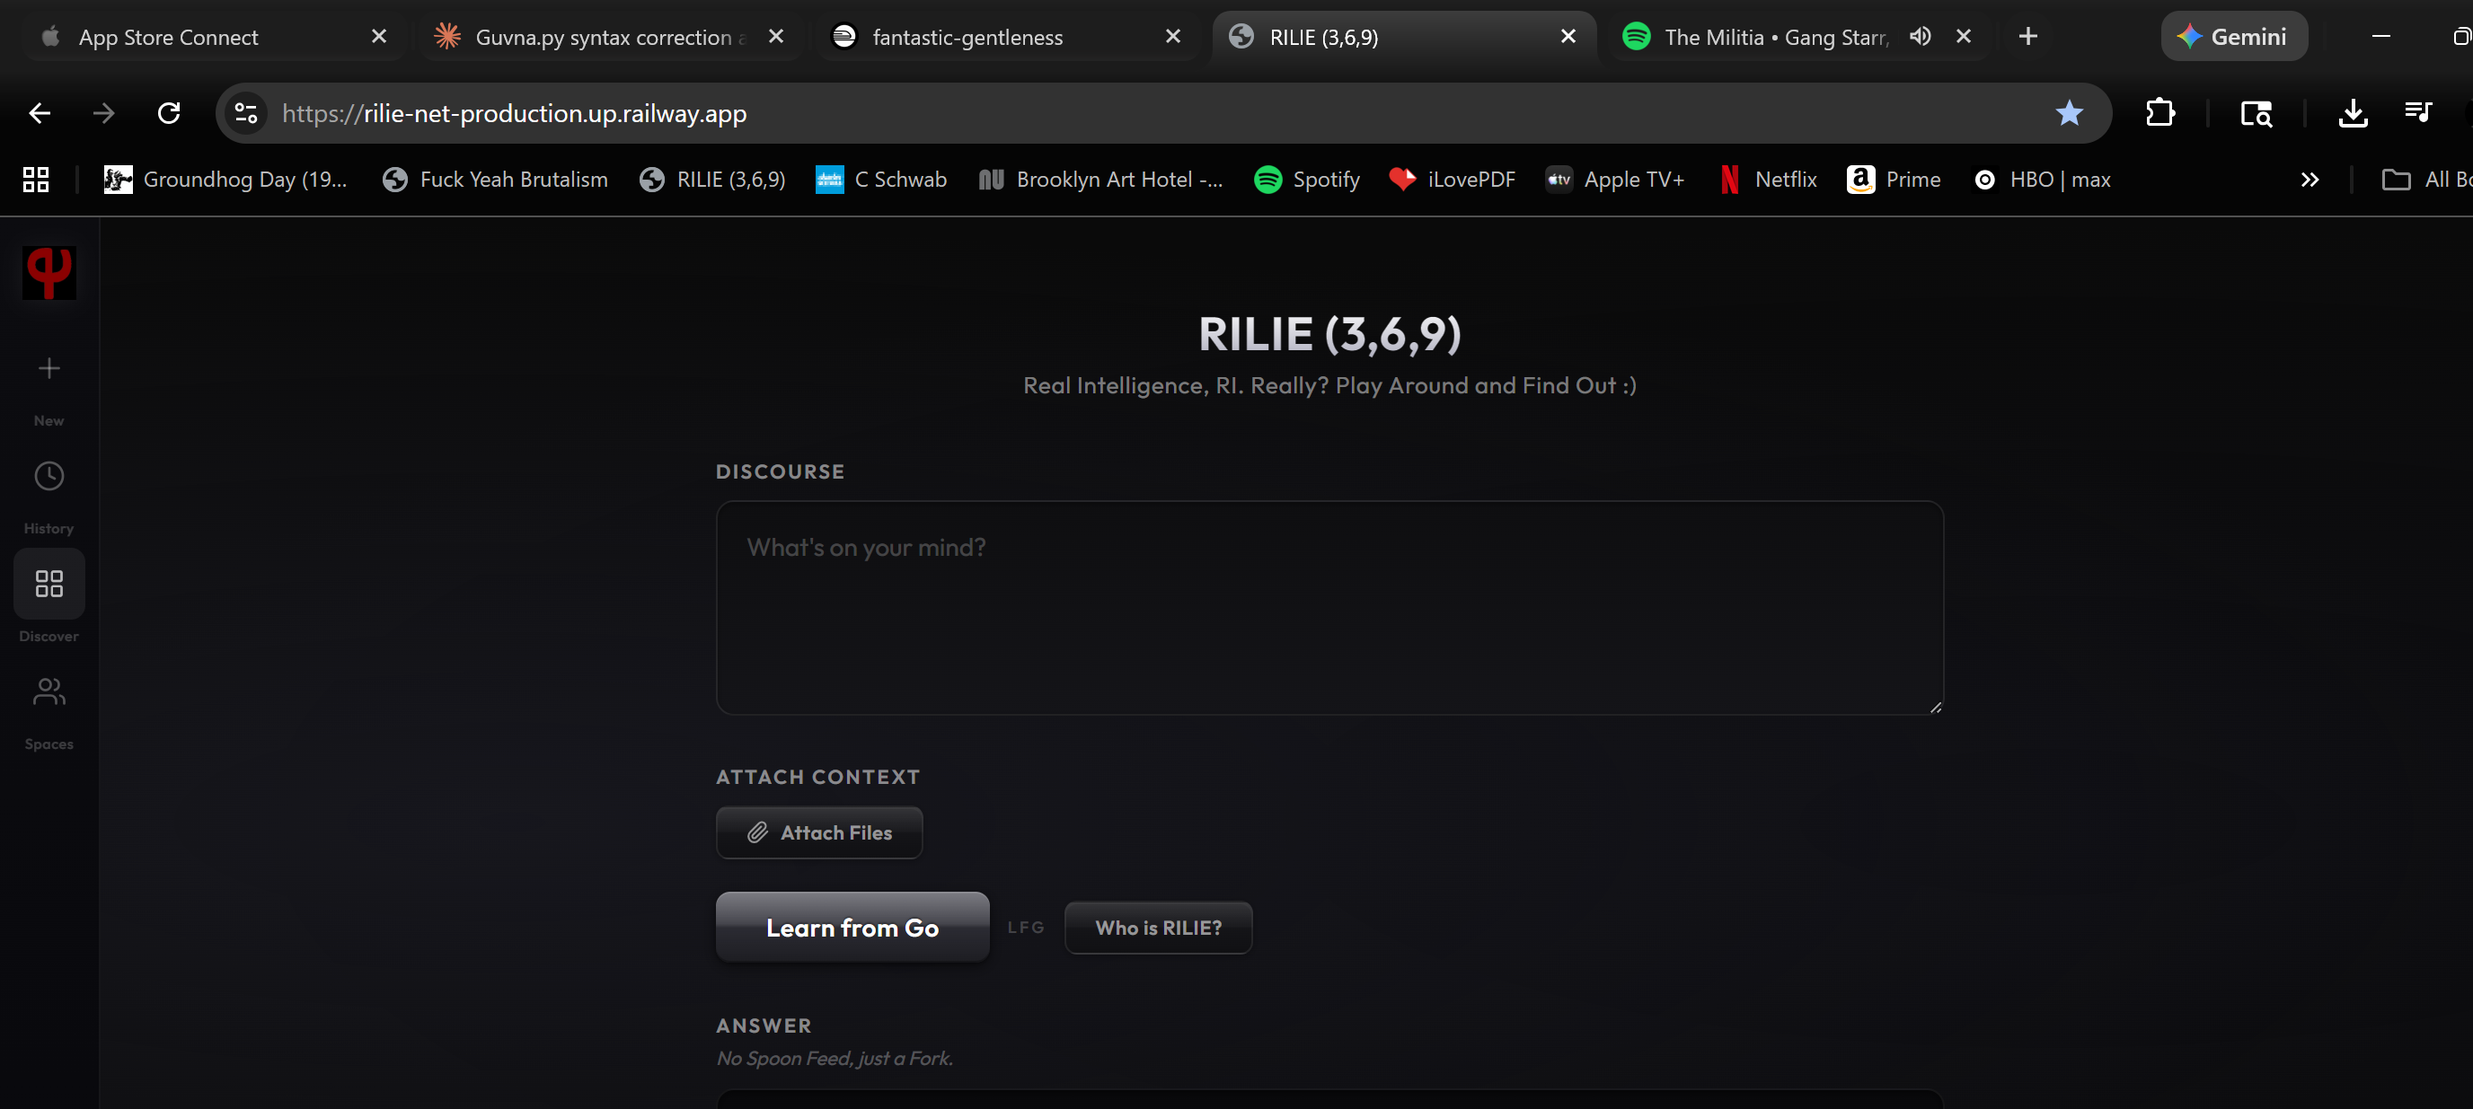
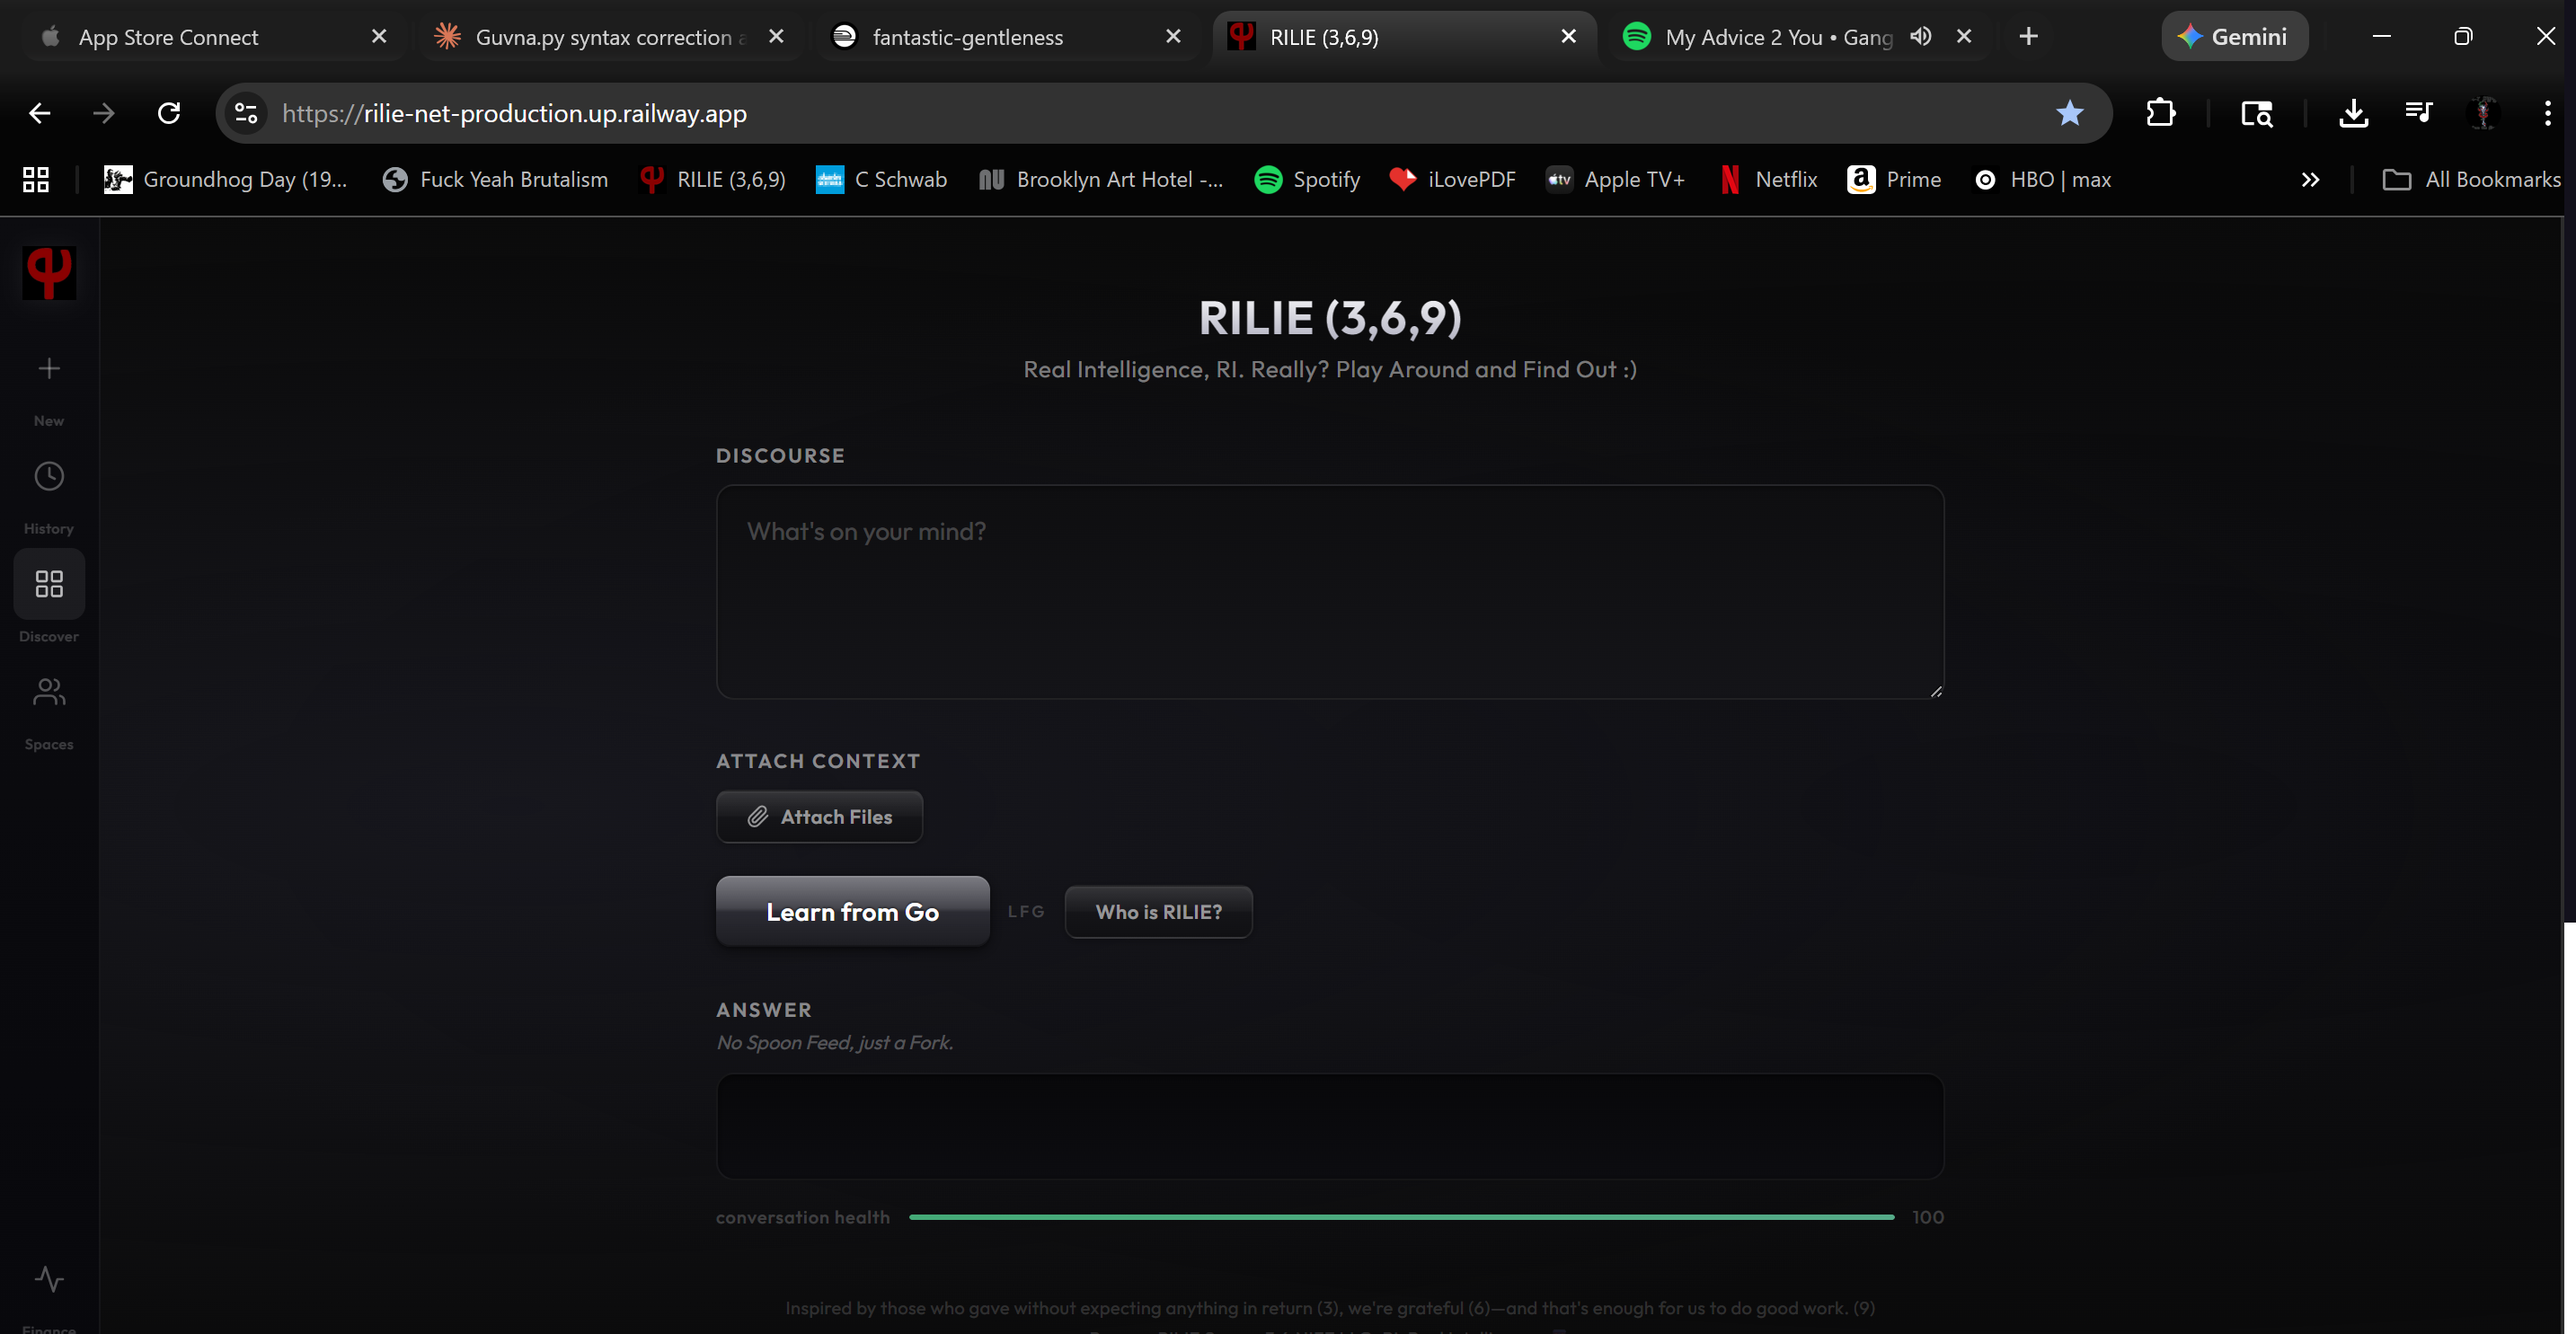
allthewaylive

diff --git a/rilie-client.html b/rilie-client.html
@@ -378,10 +378,28 @@
       font-family: 'Outfit', Consolas, Menlo, monospace;
       font-size: 13px;
       line-height: 1.65;
-      white-space: pre-wrap;
       color: rgba(255,255,255,0.75);
       min-height: 60px;
+      max-height: 500px;
+      overflow-y: auto;
       box-shadow: inset 0 1px 4px rgba(0,0,0,0.5);
+      display: flex;
+      flex-direction: column;
+      gap: 12px;
+    }
+
+    .rilie-output::-webkit-scrollbar {
+      width: 6px;
+    }
+    .rilie-output::-webkit-scrollbar-track {
+      background: transparent;
+    }
+    .rilie-output::-webkit-scrollbar-thumb {
+      background: rgba(255,255,255,0.1);
+      border-radius: 3px;
+    }
+    .rilie-output::-webkit-scrollbar-thumb:hover {
+      background: rgba(255,255,255,0.2);
     }
 
     /* ── Code block cards inside Answer ── */
@@ -777,10 +795,15 @@
 
       submitBtn.disabled = true;
       submitBtn.textContent = "Going...";
-      outputEl.textContent = "Running RILIE...";
       outputActions.classList.remove("visible");
 
       try {
+        // Append user message to conversation flow
+        const userDiv = document.createElement("div");
+        userDiv.style.marginBottom = "16px";
+        userDiv.innerHTML = "<strong>You:</strong> " + escapeHtml(stimulus).replace(/\n/g, "<br>");
+        outputEl.appendChild(userDiv);
+
         const files = fileInput.files;
         let res;
 
@@ -803,21 +826,69 @@
         }
 
         if (!res.ok) {
-          outputEl.textContent = "Error from RILIE API: " + res.status;
+          const errDiv = document.createElement("div");
+          errDiv.style.color = "#a55";
+          errDiv.innerHTML = "<strong>Error:</strong> " + res.status;
+          outputEl.appendChild(errDiv);
           return;
         }
 
         const data = await res.json();
+        const rilieLine = data.result || "No result returned.";
 
-        // Echo the human and then RILIE's answer in the Answer band
-        const userLine = "You: " + stimulus + "\n\n";
-        const rilieLine = "RILIE: " + (data.result || "No result returned.");
-        renderOutputWithCode(userLine + rilieLine);
+        // Create RILIE response container
+        const rilieDiv = document.createElement("div");
+        rilieDiv.style.marginBottom = "16px";
+        
+        // Parse and render with code blocks
+        const parts = rilieLine.split("```");
+        let html = "";
+        for (let i = 0; i < parts.length; i++) {
+          const chunk = parts[i];
+          if (i % 2 === 0) {
+            if (chunk.trim()) {
+              html += "<p><strong>RILIE:</strong> " + escapeHtml(chunk).replace(/\n/g, "<br>") + "</p>";
+            }
+          } else {
+            const lines = chunk.split("\n");
+            let codeLines = lines;
+            if (lines[0].trim().match(/^[a-zA-Z0-9_+-]+$/)) {
+              codeLines = lines.slice(1);
+            }
+            const codeHtml = escapeHtml(codeLines.join("\n"));
+            html += (
+              '<div class="rilie-code-block">' +
+                '<button class="rilie-code-copy">copy</button>' +
+                "<pre><code>" + codeHtml + "</code></pre>" +
+              "</div>"
+            );
+          }
+        }
+        rilieDiv.innerHTML = html;
+        outputEl.appendChild(rilieDiv);
+
+        // Attach copy button handlers
+        rilieDiv.querySelectorAll(".rilie-code-copy").forEach((btn) => {
+          btn.onclick = async () => {
+            const code = btn.parentElement.querySelector("pre").innerText;
+            try {
+              await navigator.clipboard.writeText(code);
+              btn.textContent = "copied";
+              setTimeout(() => { btn.textContent = "copy"; }, 1200);
+            } catch (e) {}
+          };
+        });
+
+        // Scroll to bottom
+        outputEl.scrollTop = outputEl.scrollHeight;
 
         updateMeta(data);
         outputActions.classList.add("visible");
       } catch (err) {
-        outputEl.textContent = "Request failed: " + err;
+        const errDiv = document.createElement("div");
+        errDiv.style.color = "#a55";
+        errDiv.innerHTML = "<strong>Request failed:</strong> " + err;
+        outputEl.appendChild(errDiv);
       } finally {
         submitBtn.disabled = false;
         submitBtn.textContent = "Learn from Go";
